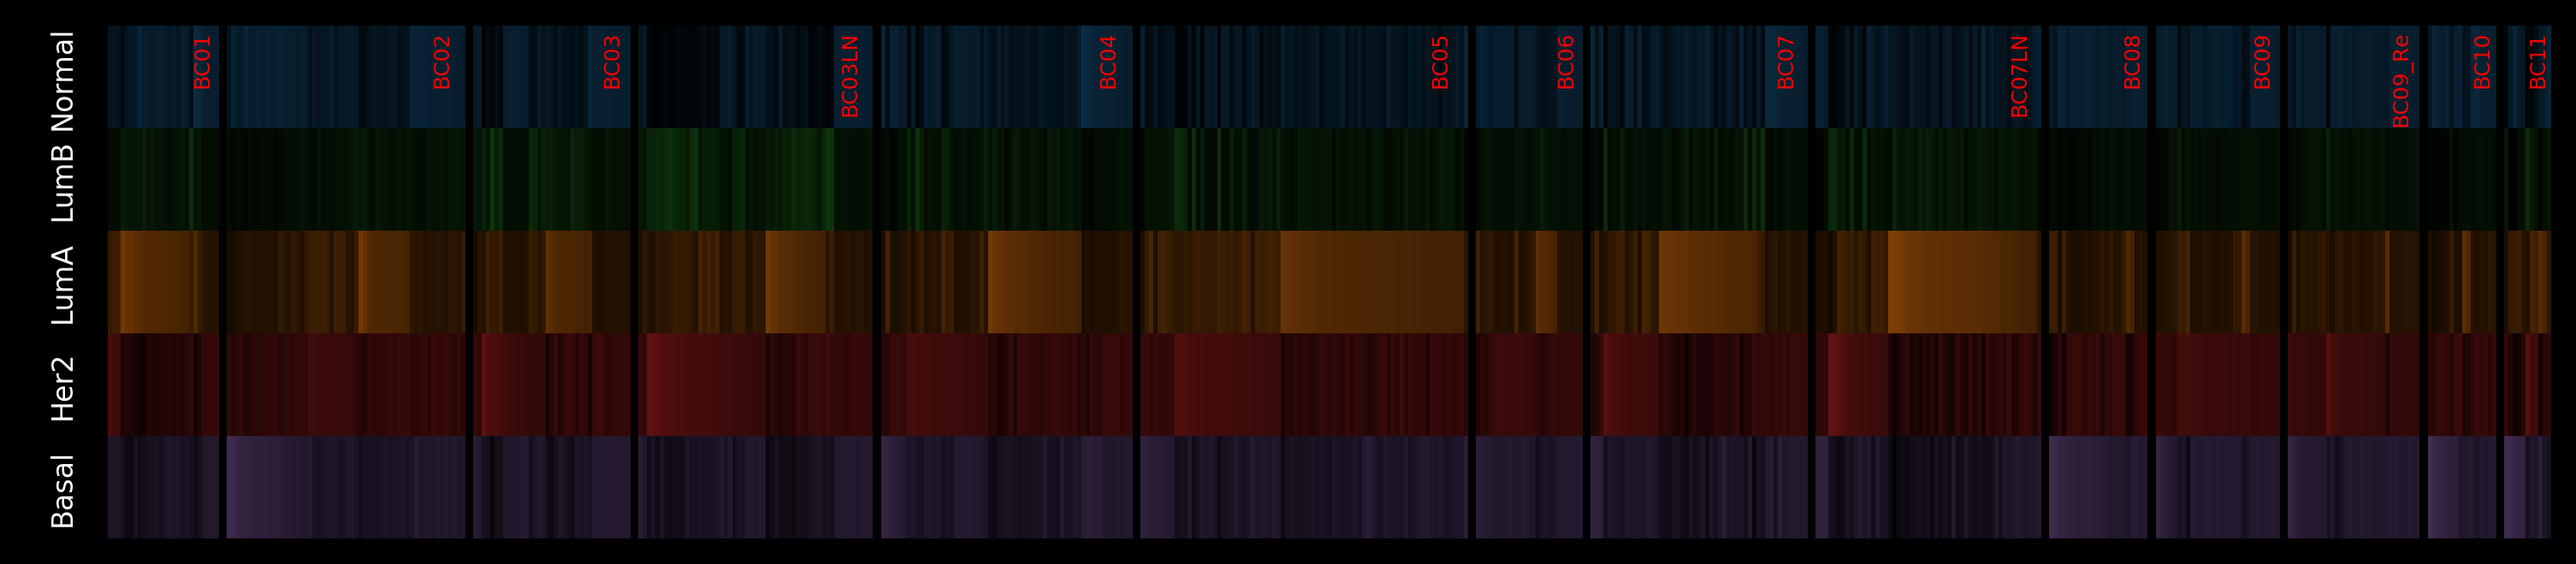
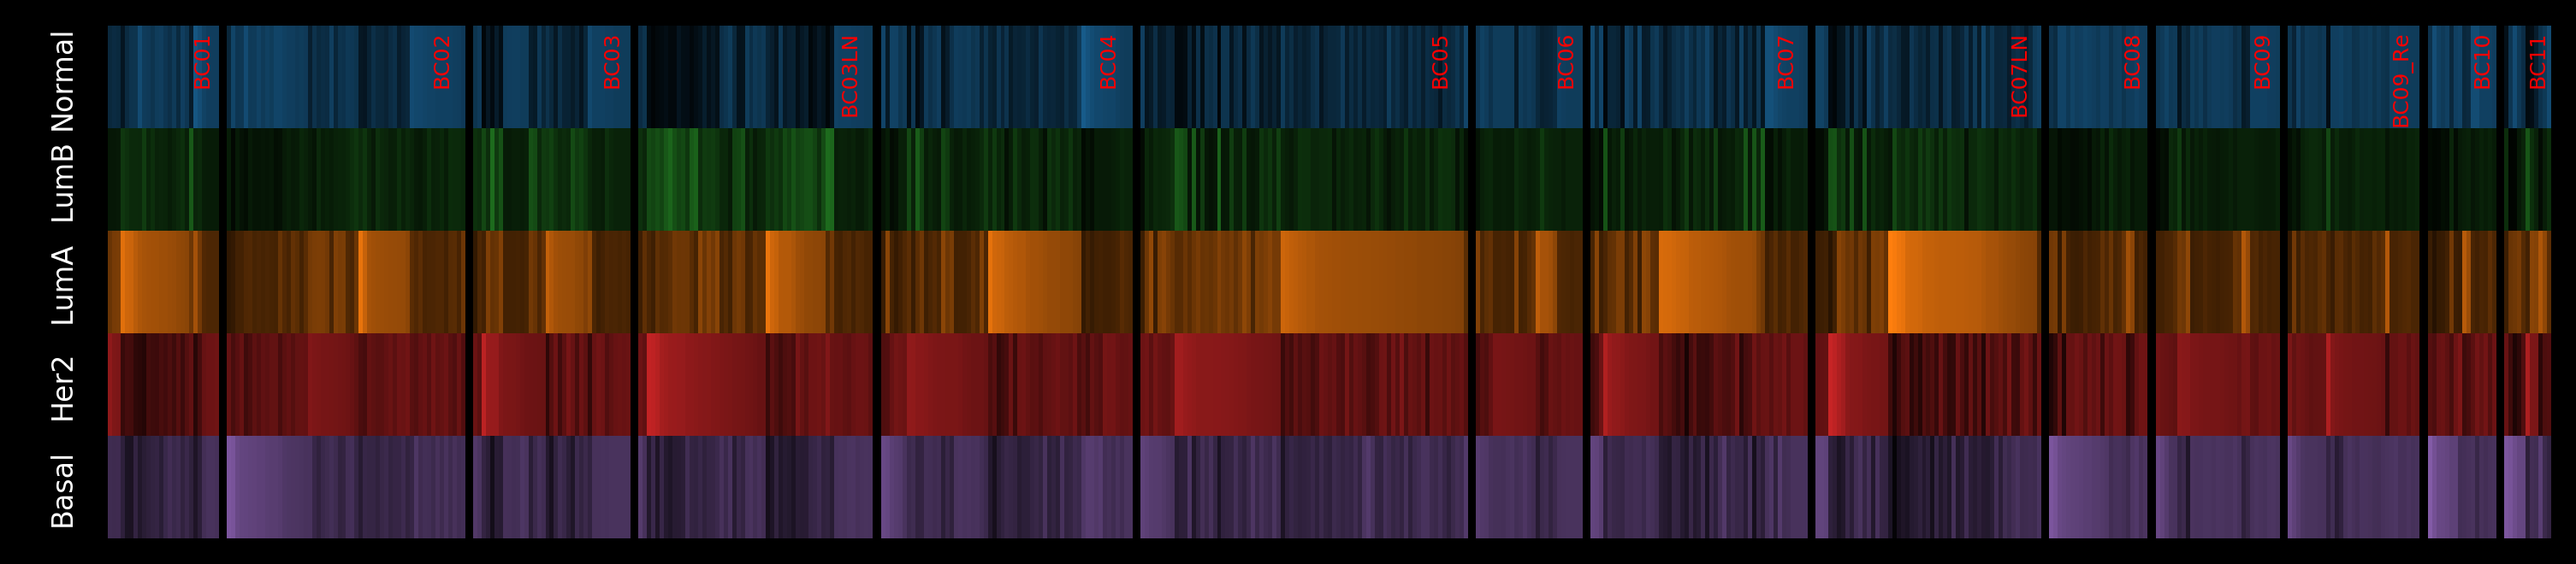
RA: Higher contrast

diff --git a/p/single-cell/20180124-TCGA-BRCA/m2_pam50_decisiontree_bcxx.py b/p/single-cell/20180124-TCGA-BRCA/m2_pam50_decisiontree_bcxx.py
@@ -40,6 +40,9 @@ PARAM = {
 	# Plot markers
 	'PAM50-markers': ['o', '^', 'v', '*', 's'],
 
+	# Normalize the fancy plot to "max = 1"
+	'normalize-y': True,
+
 	# BCXX PAM50-classified histogram
 	'classified': "OUTPUT/m2_pam50_decisiontree_bcxx/hist_{kind}.{ext}",
 	'full_classified': "OUTPUT/m2_pam50_decisiontree_bcxx/full_hist.{ext}",
@@ -63,6 +66,11 @@ def plot_fancy(Y: pd.DataFrame):
 	def class_confidence(p):
 		n = np.argmax(p.values)
 		return (n, -p[n])
+
+	# Normalize the whole matrix
+	if PARAM['normalize-y']:
+		commons.logger.info("Max Y: {}".format(max(Y.values.flatten())))
+		Y /= max(Y.values.flatten())
 
 	# Split Y by tumor
 	TY = [Y[Y.index.map(parent) == t] for t in tumors]
